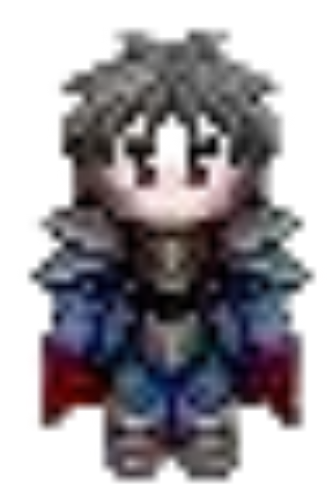
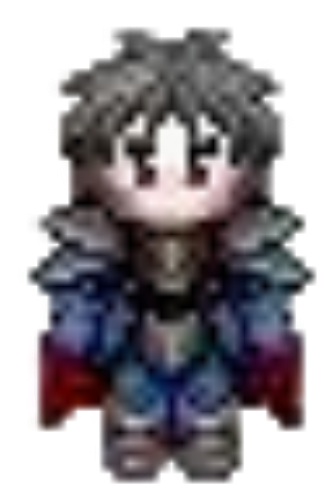
UPDATE

Changed region(s): [[0.0601, 0.03, 0.961, 0.99]]

diff --git a/entities/players.py b/entities/players.py
@@ -1,14 +1,24 @@
 import pygame
 from   pygame.locals  import *
-from   initial_screen import deminsions
-#from   background     import bg 
+from   initial_screen import screen, deminsions
+from   entities.background     import bg 
 width = deminsions[0]
 height = deminsions[1]
+
+def draw_health_bar(surf, pos, size, borderC, backC, healthC, progress):
+    pygame.draw.rect(surf, backC, (*pos, *size))
+    pygame.draw.rect(surf, borderC, (*pos, *size), 1)
+    innerPos  = (pos[0]+1, pos[1]+1)
+    innerSize = ((size[0]-2) * progress, size[1]-2)
+    rect = (round(innerPos[0]), round(innerPos[1]), round(innerSize[0]), round(innerSize[1]))
+    pygame.draw.rect(surf, healthC, rect)
+
+
 
 class Player(pygame.sprite.Sprite):
     def __init__(self):
         super(Player, self).__init__()
-        self.sprite_img   = pygame.image.load("imgs/up1.png").convert_alpha()
+        self.sprite_img   = pygame.image.load("imgs/down1.png").convert_alpha()
         self.sprite       = pygame.transform.scale(self.sprite_img, (width/3/1.5/1.5, height/1.5/1.5/1.5))
         self.rect         = self.sprite.get_rect()
         self.rect.centerx = (width//2)
@@ -16,21 +26,23 @@ class Player(pygame.sprite.Sprite):
     
     # Move the sprite based on user keypresses
     def update(self, keyinput):
+        store= bg._STORE; trc=store.trc;tlc=store.tlc;brc=store.brc;blc=store.blc
         if keyinput[K_LEFT]:
-            self.rect.centerx -= 2
+            self.rect.centerx -= 4
             pd=Player_direction(4)
 
         elif keyinput[K_RIGHT]:
-            self.rect.centerx += 2
+            self.rect.centerx += 4
             pd=Player_direction(3)
 
         elif keyinput[K_UP]:
-            self.rect.centery -= 2
+            self.rect.centery -= 4
             pd=Player_direction(1)
 
         elif keyinput[K_DOWN]:
-            self.rect.centery += 2
+            self.rect.centery += 4
             pd=Player_direction(2)
+
         elif keyinput[K_SPACE]:
             pd=1
         else:
@@ -39,19 +51,39 @@ class Player(pygame.sprite.Sprite):
         # Keep player on the screen
         if self.rect.left < 0:
             self.rect.left = 0
+            if trc or brc:
+                bg.move.left(self)
+
         if self.rect.right > width:
             self.rect.right = width
+            if tlc or blc:
+                bg.move.right(self)
+
         if self.rect.top <= 0:
             self.rect.top = 0
+            if blc or brc:
+                bg.move.up(self)
+
         if self.rect.bottom >= height:
             self.rect.bottom = height
-        
+            if tlc or trc:
+                bg.move.down(self)
+
         if pd!=1:
             pd.update()
+
         else:
             self.fire() 
     
+    def draw_health(self, surf):
+        health_rect = pygame.Rect(0, 0, self.sprite_img.get_width(), 7)
+        health_rect.midbottom = self.rect.centerx, self.rect.top
+        max_health = 20
+        draw_health_bar(surf, health_rect.topleft, health_rect.size, 
+                (0, 0, 0), (255, 0, 0), (0, 255, 0), health.health/max_health) 
+
     def fire(self):
+        health.health-=1
         pass
 
 player=Player()
@@ -152,6 +184,24 @@ class Player_direction():
             elif _STORE.x > 25:
                 _STORE.up2=False; _STORE.down2=False; _STORE.right2=False; _STORE.left2=False
 
+def DEAD():
+    store= bg._STORE; store.tlc=True; store.trc=False; store.blc=False; store.brc=False
+    bg.move.right(player)
+    _STORE.run=False
+    
+
+
+class health():
+    health=1
+
+    def check_health():
+        if health.health <= 0:
+            return DEAD()
+        else:
+            return False
+
+
+
 
 
 class _STORE:
@@ -160,3 +210,12 @@ class _STORE:
     down2=False
     right2=False
     left2=False
+    run=True
+
+def end_game():
+    pass
+
+def checkCollision(self, sprite1, sprite2):
+    col = pygame.sprite.collide_rect(sprite1, sprite2)
+    if col == True:
+        end_game()

diff --git a/entities/background.py b/entities/background.py
@@ -1,0 +1,88 @@
+import pygame
+from   pygame.locals  import *
+from   initial_screen import screen, deminsions
+width = deminsions[0]
+height = deminsions[1]
+
+class Background(pygame.sprite.Sprite):
+    def __init__(self):
+        super(Background, self).__init__()
+        """self.sprite_img   = pygame.image.load("imgs/up1.png").convert_alpha()
+        self.sprite       = pygame.transform.scale(self.sprite_img, screen.get_size())"""
+        self.sprite = pygame.Surface(screen.get_size())
+        self.sprite.fill((255, 255, 255))
+        self.rect         = self.sprite.get_rect()
+        self.rect.centerx = (width//2)
+        self.rect.centery = (height//2)
+    
+    # Move the sprite based on user keypresses
+    def update(self):
+        pass
+
+    class _STORE:
+        trc=True
+        tlc=False
+        brc=False
+        blc=False
+
+    class move:
+        def left(player):
+            store= bg._STORE; trc=store.trc;tlc=store.tlc;brc=store.brc;blc=store.blc
+            player.rect.centerx = (width-mv)
+            if trc:
+                store.tlc=True
+                store.trc=False
+                bg.sprite.fill(TLC)
+
+            elif brc:
+                store.blc=True
+                store.brc=False
+                bg.sprite.fill(BLC)
+        
+        def right(player):
+            store= bg._STORE; trc=store.trc;tlc=store.tlc;brc=store.brc;blc=store.blc
+            player.rect.centerx = mv
+            if tlc:
+                store.trc=True
+                store.tlc=False
+                bg.sprite.fill(TRC)
+            
+            elif blc:
+                store.brc=True
+                store.blc=False
+                bg.sprite.fill(BRC)
+
+        def up(player):
+            store= bg._STORE;brc=store.brc;blc=store.blc
+            player.rect.centery = (height-mvu)
+            if brc:
+                store.trc=True
+                store.blc=False
+                bg.sprite.fill(TRC)
+
+            elif blc:
+                store.tlc=True
+                store.blc=False
+                bg.sprite.fill(TLC)
+
+        def down(player):
+            store= bg._STORE; trc=store.trc;tlc=store.tlc
+            player.rect.centery = mvu
+            if tlc:
+                store.blc=True
+                store.tlc=False
+                bg.sprite.fill(BLC)
+
+            elif trc:
+                store.brc=True
+                store.trc=False
+                bg.sprite.fill(BRC)
+
+TRC=(255, 255, 255)
+TLC=(0, 0, 0)
+BRC=(0, 255, 255)
+BLC=(255, 0, 255)
+
+mv=142
+mvu=161
+bg=Background()

diff --git a/entities/enemy.py b/entities/enemy.py
@@ -1,0 +1,90 @@
+import pygame
+from   initial_screen import screen, deminsions
+width = deminsions[0]
+height = deminsions[1]
+generate_enemies=0
+
+
+class Lazer_e(pygame.sprite.Sprite):
+    def __init__(self):
+        super(Lazer_e, self).__init__()
+        self.sprite = pygame.Surface((45,10))
+        self.sprite.fill((0,205,0))
+        self.rect         = self.sprite.get_rect()
+        self.rect.centerx = (width//2)
+        self.rect.centery = (height//2)
+    
+    def update(self, dir):
+        """
+        1: left
+        2: right
+        3: up
+        4: down
+        """
+        if 1:
+            self.rect.centerx -= 4
+
+        elif 2:
+            self.rect.centerx += 4
+
+        elif 3:
+            self.rect.centery -= 4
+
+        elif 4:
+            self.rect.centery += 4
+
+class Lazer_m(pygame.sprite.Sprite):
+    def __init__(self):
+        super(Lazer_m, self).__init__()
+        self.sprite = pygame.Surface((60,9))
+        self.sprite.fill((255,255,0))
+        self.rect         = self.sprite.get_rect()
+        self.rect.centerx = (width//2)
+        self.rect.centery = (height//2)
+    
+    def update(self, dir):
+        """
+        1: left
+        2: right
+        3: up
+        4: down
+        """
+        if 1:
+            self.rect.centerx -= 4
+
+        elif 2:
+            self.rect.centerx += 4
+
+        elif 3:
+            self.rect.centery -= 4
+
+        elif 4:
+            self.rect.centery += 4
+
+class Lazer_H(pygame.sprite.Sprite):
+    def __init__(self):
+        super(Lazer_H, self).__init__()
+        self.sprite = pygame.Surface((55,10))
+        self.sprite.fill((255,0,0))
+        self.rect         = self.sprite.get_rect()
+        self.rect.centerx = (width//2)
+        self.rect.centery = (height//2)
+    
+    def update(self, dir):
+        """
+        1: left
+        2: right
+        3: up
+        4: down
+        """
+        if 1:
+            self.rect.centerx -= 4
+
+        elif 2:
+            self.rect.centerx += 4
+
+        elif 3:
+            self.rect.centery -= 4
+
+        elif 4:
+            self.rect.centery += 4

diff --git a/main.py b/main.py
@@ -1,21 +1,20 @@
 import pygame 
 from   pygame.locals  import *
 from   initial_screen import x, screen, deminsions
-from   players        import player
-
+from   entities.players        import player, health, _STORE
+from   entities.background     import bg
+from   entities.enemy          import generate_enemies, Lazer_e, Lazer_m, Lazer_H
+ALL=[bg, Lazer_m(), player]
 width = deminsions[0]
 height = deminsions[1]
-
 white = (255, 255, 255)
-background = pygame.Surface(screen.get_size())
-background.fill(white)
 
-screen.blit(background, (0, 0))
-screen.blit(player.sprite, player.rect)
+for item in ALL:
+    screen.blit(item.sprite, item.rect)
 
 pygame.display.flip()
 
-while True:
+while _STORE.run:
     events = pygame.event.get()
     for event in events:
         if event.type == pygame.KEYDOWN:
@@ -24,9 +23,27 @@ while True:
 
     keyinput = pygame.key.get_pressed()
     
+    health.check_health()
     player.update(keyinput)
 
-    screen.blit(background, (0,0))
-    screen.blit(player.sprite, player.rect)
+    for item in ALL:
+        screen.blit(item.sprite, item.rect)
+    pygame.draw.rect(screen, (255, 0, 0), screen.get_rect(), 3)
+    player.draw_health(screen)
     # update display
+    pygame.display.flip()
+
+while True:
+    events = pygame.event.get()
+    for event in events:
+        if event.type == pygame.KEYDOWN:
+            if event.key == K_ESCAPE:
+                pygame.quit();break
+    
+    sprite_img   = pygame.image.load("imgs/dead.png").convert_alpha()
+    sprite       = pygame.transform.scale(sprite_img, screen.get_size())
+    rect         = sprite.get_rect()
+    rect.centerx = (width//2)
+    rect.centery = (height//2)
+    screen.blit(sprite, rect)
     pygame.display.flip()
